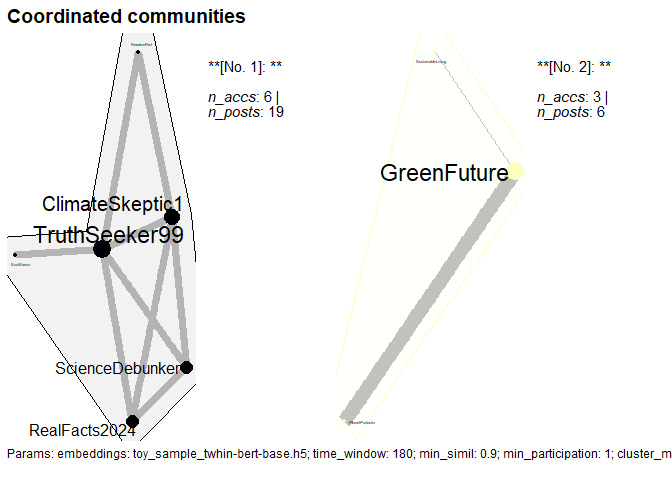
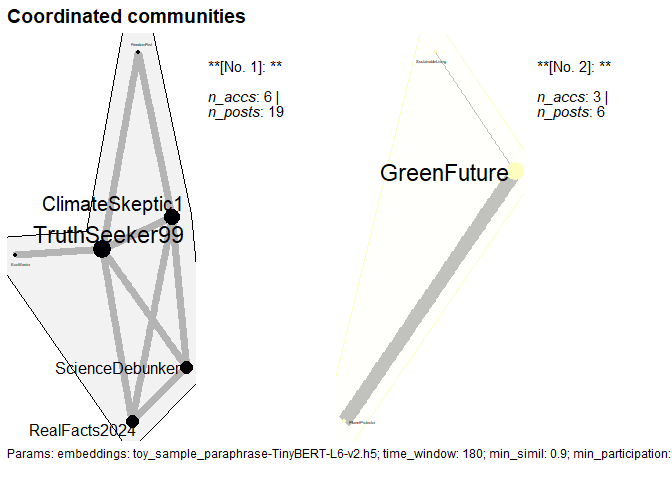
rebuilt readme

Changed region(s): [[0.2812, 0.9375, 1.0, 0.9688]]

diff --git a/README.md b/README.md
@@ -202,10 +202,13 @@ Run co-similarity detection on posts within a 180-second timeframe and a
 cosine similarity threshold of 0.9.
 
 ``` r
+# Get embedding file path
+emb_file <- list.files(path = "data/emb", pattern = ".h5$", full.names = T)[1]
+
 # Detect Posting similarites
 sim_dt <- coorsim::detect_cosimilarity(
   data = tweets_df,
-  embeddings = "data/emb/toy_sample_twhin-bert-base.h5",
+  embeddings = emb_file,
   time_window = 180, # 3 Minutes 
   min_simil = 0.9, 
   min_participation = 1,
@@ -215,10 +218,13 @@ sim_dt <- coorsim::detect_cosimilarity(
   content = "content",
   verbose = TRUE
 )
-#> ℹ [1/4]: Preprocessing.Embeddings provided by .h5 file.✔ [1/4]: Preprocessing. [4ms]
-#> ℹ [2/4]: Matching posts published within 180s.✔ [2/4]: Matched posts published within 180s. [18ms]
-#> Loading embeddings from the .h5 file.ℹ [3/4]: Querying embeddings and calculate similarities using C++.✔ [3/4]: Queried embeddings, calculated similarities using C++. [18ms]
-#> ℹ [4/4]: Filter accounts by min_participation=1✔ [4/4]: Filtered accounts by min_participation=1 [25ms]
+#> ℹ [1/4]: Preprocessing.Embeddings provided by .h5 file.✔ [1/4]: Preprocessing. [3ms]
+#> ℹ [2/4]: Matching posts published within 180s.✔ [2/4]: Matched posts published within 180s. [14ms]
+#> Loading embeddings from the .h5 file.ℹ [3/4]: Querying embeddings and calculate similarities using C++.✔ [3/4]: Queried embeddings, calculated similarities using C++. [14ms]
+#> ℹ [4/4]: Filter accounts by min_participation=1✔ [4/4]: Filtered accounts by min_participation=1 [14ms]
+
+# Clean up the embeddings directory
+if(dir.exists("data/emb")) unlink("data/emb", recursive = TRUE)
 ```
 
 ### Step 4: Detect Communities
@@ -227,18 +233,18 @@ Aggregate the coordinated patterns on account level, create a network,
 and identify communities of accounts using ‘louvain’ clustering:
 
 ``` r
-
+# Detect groups of accounts
 coord <- coorsim::coorsim_detect_groups(
   simdt = sim_dt,
   user_data = users_df,
   account_id = "account_id",
   verbose = TRUE
 )
-#> ℹ [1/5]: Harmonizing user data.De-duplicating 'user_data'...✔ [1/5]: Harmonized user data. [12ms]
-#> ℹ [2/5]: Create edge list.✔ [2/5]: Created edge list. [10ms]
-#> ℹ [3/5]: Create node list and graph.✔ [3/5]: Created node list and graph. [154ms]
+#> ℹ [1/5]: Harmonizing user data.De-duplicating 'user_data'...✔ [1/5]: Harmonized user data. [8ms]
+#> ℹ [2/5]: Create edge list.✔ [2/5]: Created edge list. [9ms]
+#> ℹ [3/5]: Create node list and graph.✔ [3/5]: Created node list and graph. [35ms]
 #> ℹ [4/5]: Finding communities.✔ [4/5]: Finding communities. [8ms]
-#> ℹ [5/5]: Merge and prepare output data.✔ [5/5]: Prepared output data. [7ms]   
+#> ℹ [5/5]: Merge and prepare output data.✔ [5/5]: Prepared output data. [6ms]   
 ```
 
 ### Step 5: Plot Network